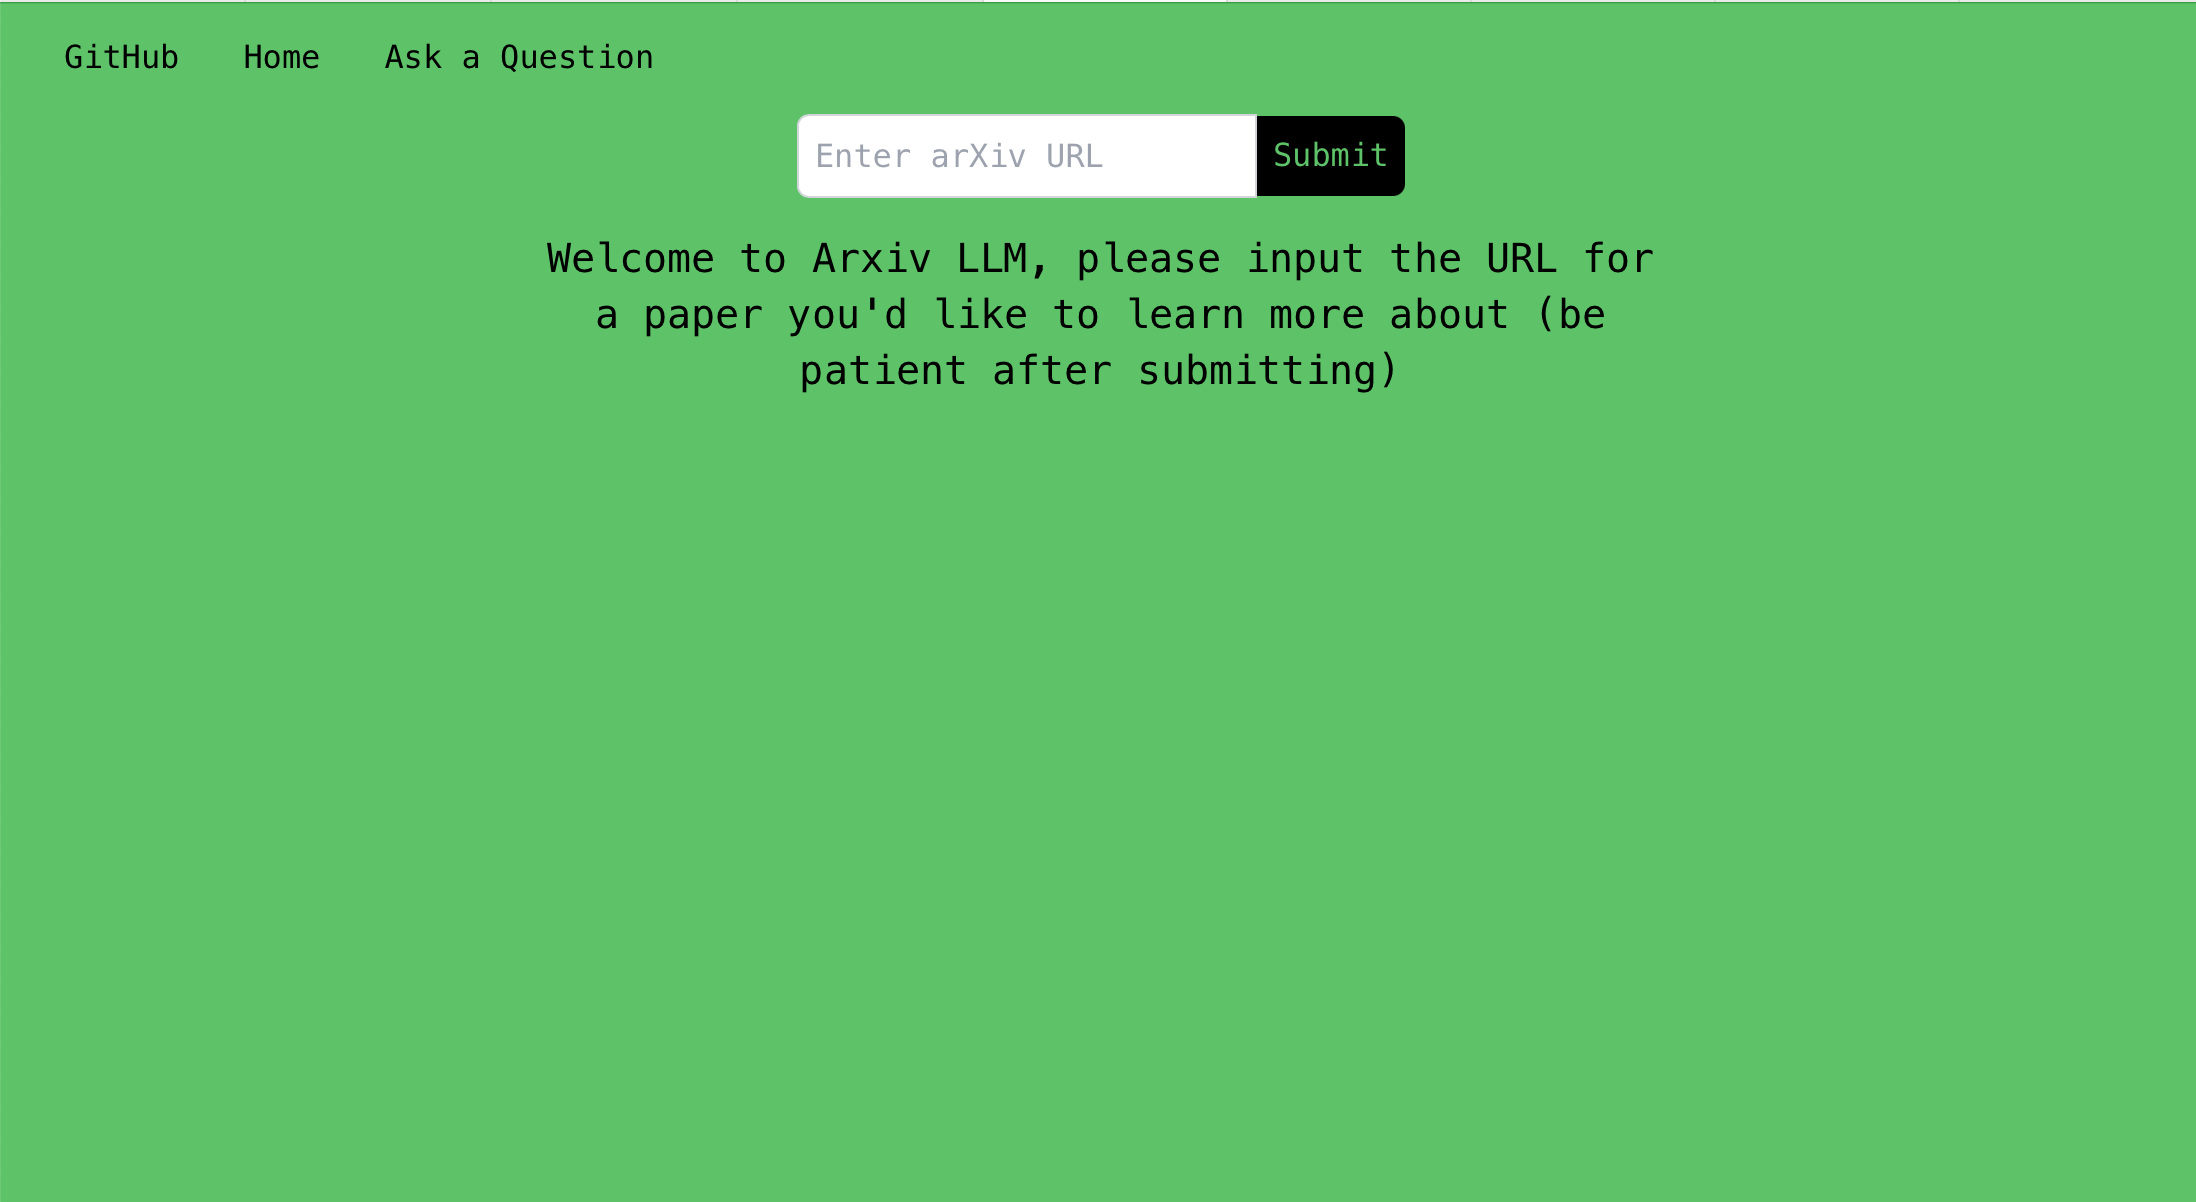
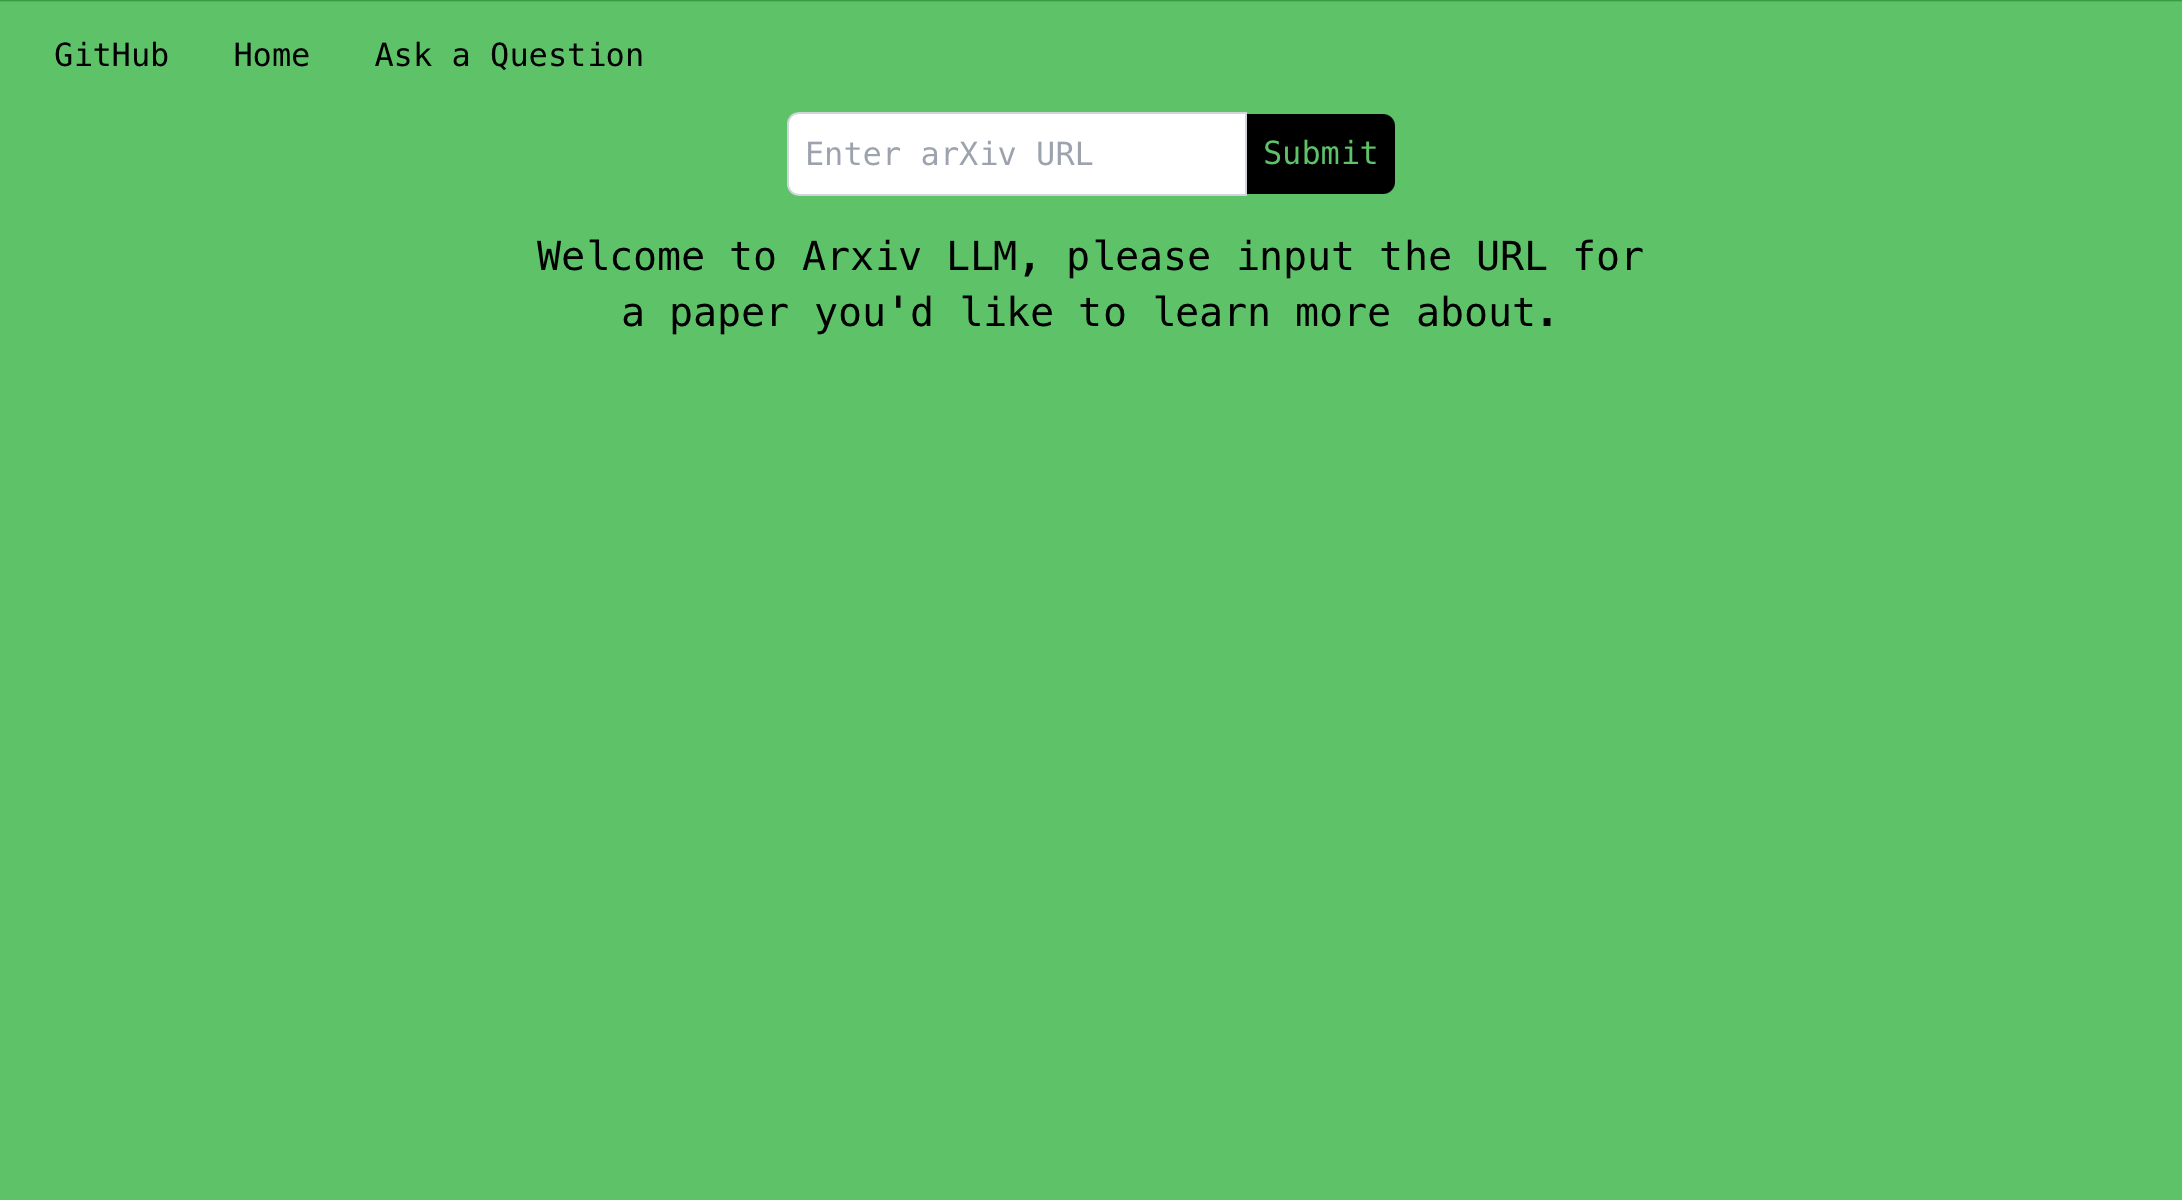
oct7

Changed region(s): [[0.2493, 0.0925, 0.7479, 0.3392], [0.0312, 0.0308, 0.3116, 0.0617]]

diff --git a/arxiv-llm_app/nextjs-frontend/pages/index.tsx b/arxiv-llm_app/nextjs-frontend/pages/index.tsx
@@ -46,7 +46,7 @@ const Home: React.FC = () => {
       <div className="flex flex-col justify-center items-center max-w-xl mx-auto">
         <p className="text-xl text-black text-center">
           Welcome to Arxiv LLM, please input the URL for a paper you&apos;d like to
-          learn more about (be patient after submitting)
+          learn more about.
         </p>
       </div>
     </div>
